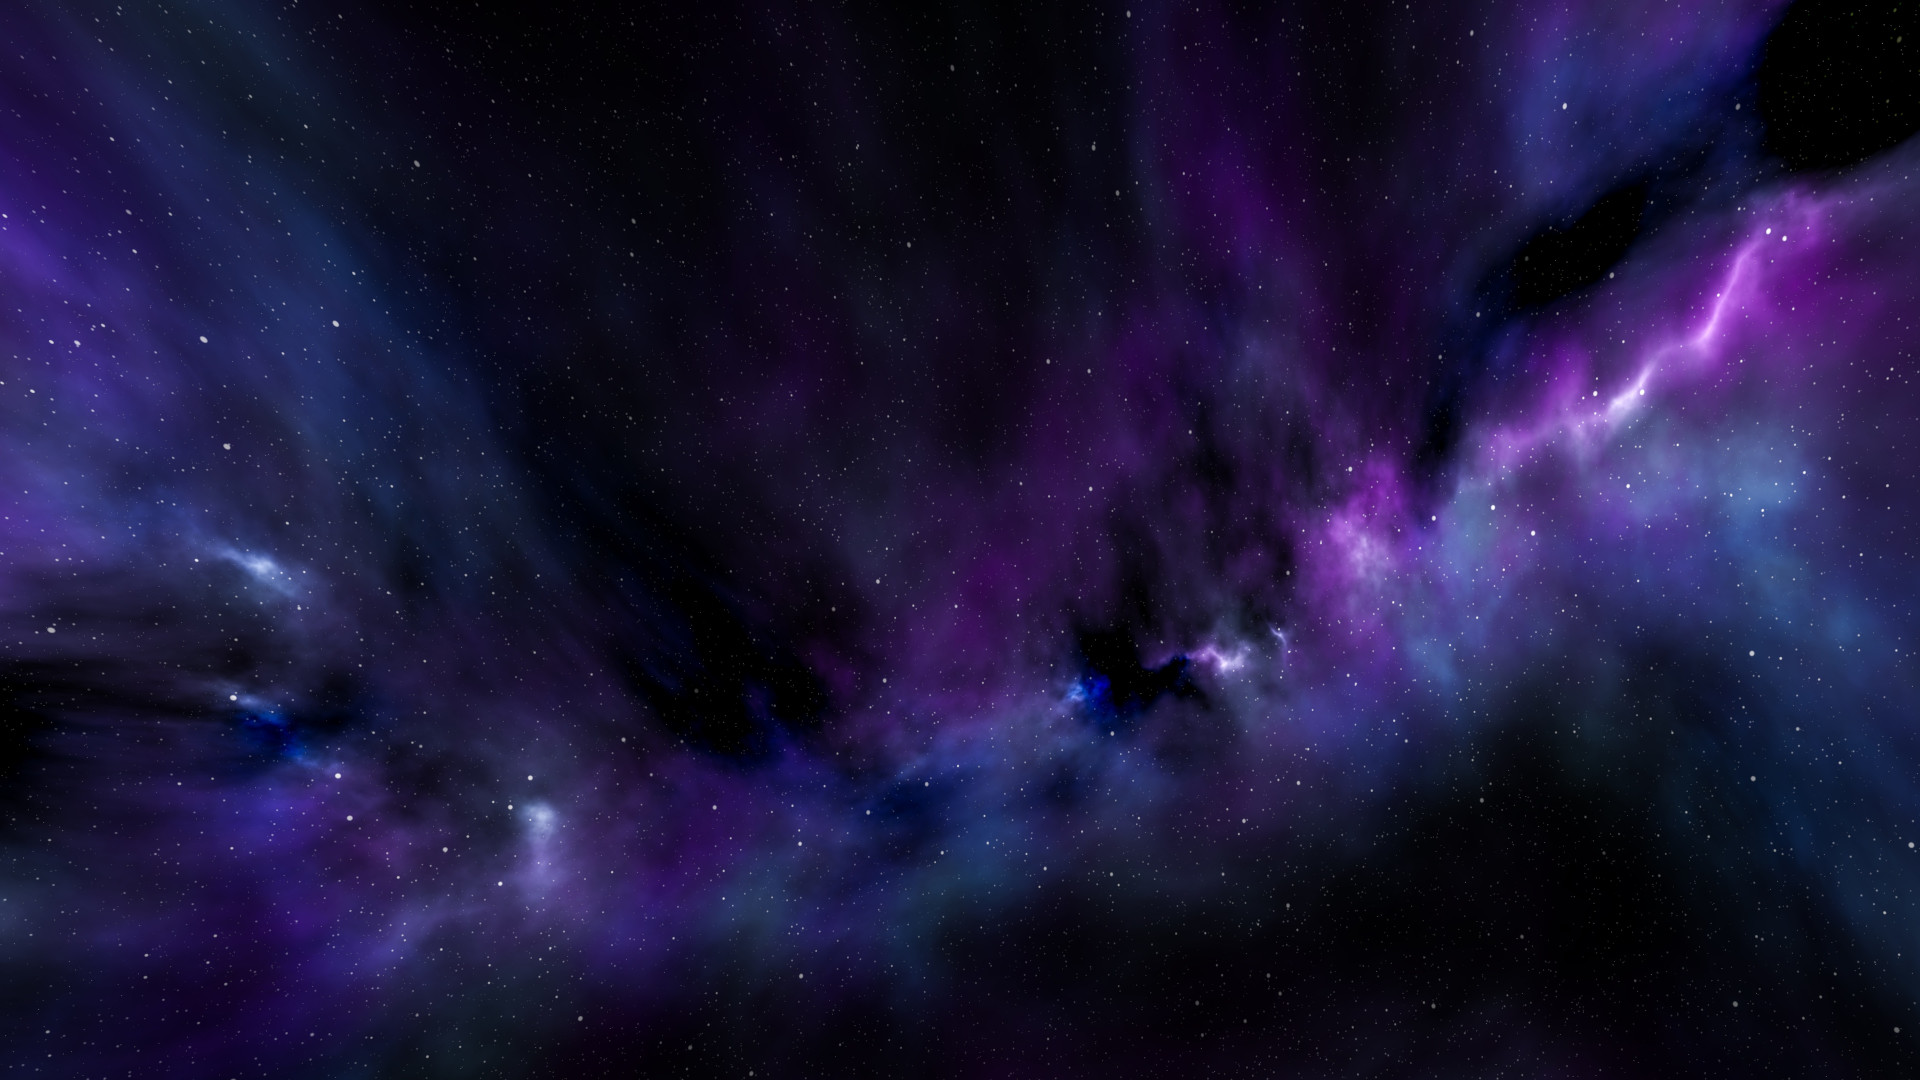
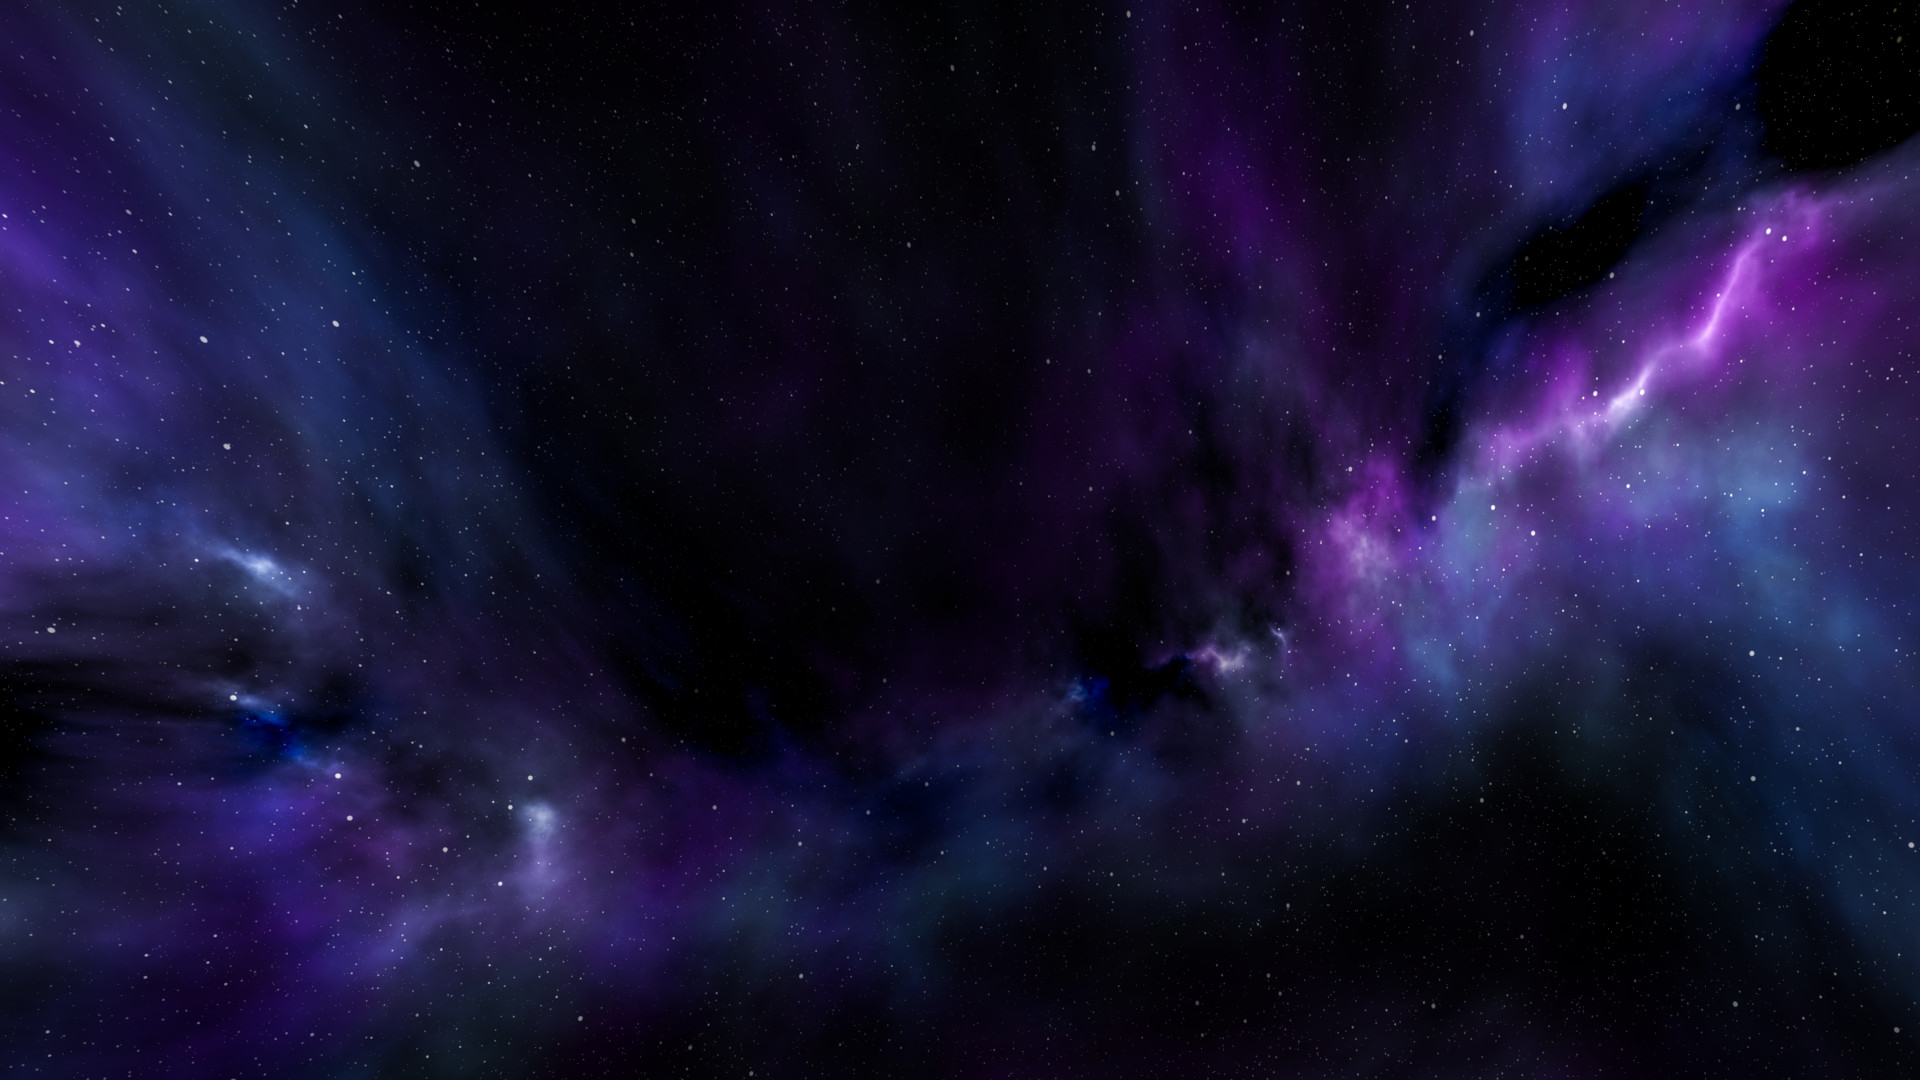
update styles

Changed region(s): [[0.3438, 0.3667, 0.7188, 0.8556]]

diff --git a/public/style.css b/public/style.css
@@ -11,6 +11,7 @@ main {
     height: 100vh;
     flex-direction: column;
     background: black url(images/bg.jpg);
+    background-position: center;
     background-size: cover;
     color: white;
     font-family: Verdana, Geneva, Tahoma, sans-serif;
@@ -18,15 +19,14 @@ main {
 }
 
 .hero-heading {
-    font-size: 3rem;
+    font-size: 4rem;
     line-height: 0.9;
     text-shadow: 0px 0px 5px rgb(57, 255, 255), 0px 0px 15px aqua, 0px 0px 25px rgb(0, 13, 255);
-
 }
 
 .hero-heading > div {
     font-weight: 200;
-    font-size: 2rem;
+    font-size: 3rem;
     letter-spacing: 0.4rem;
 }
 
